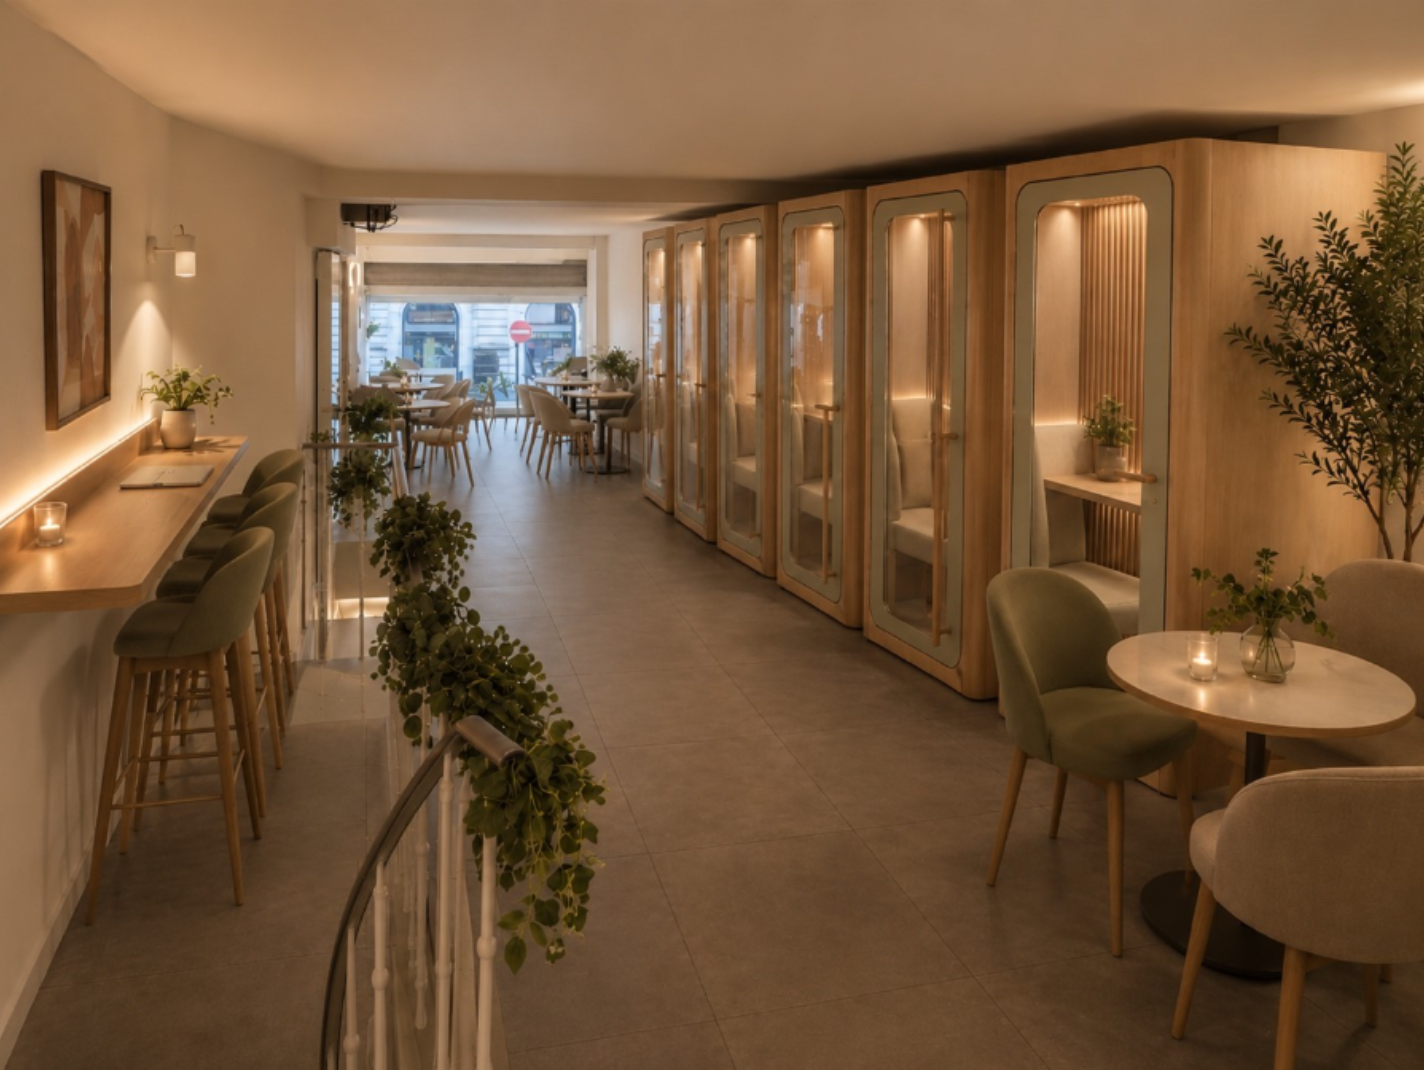
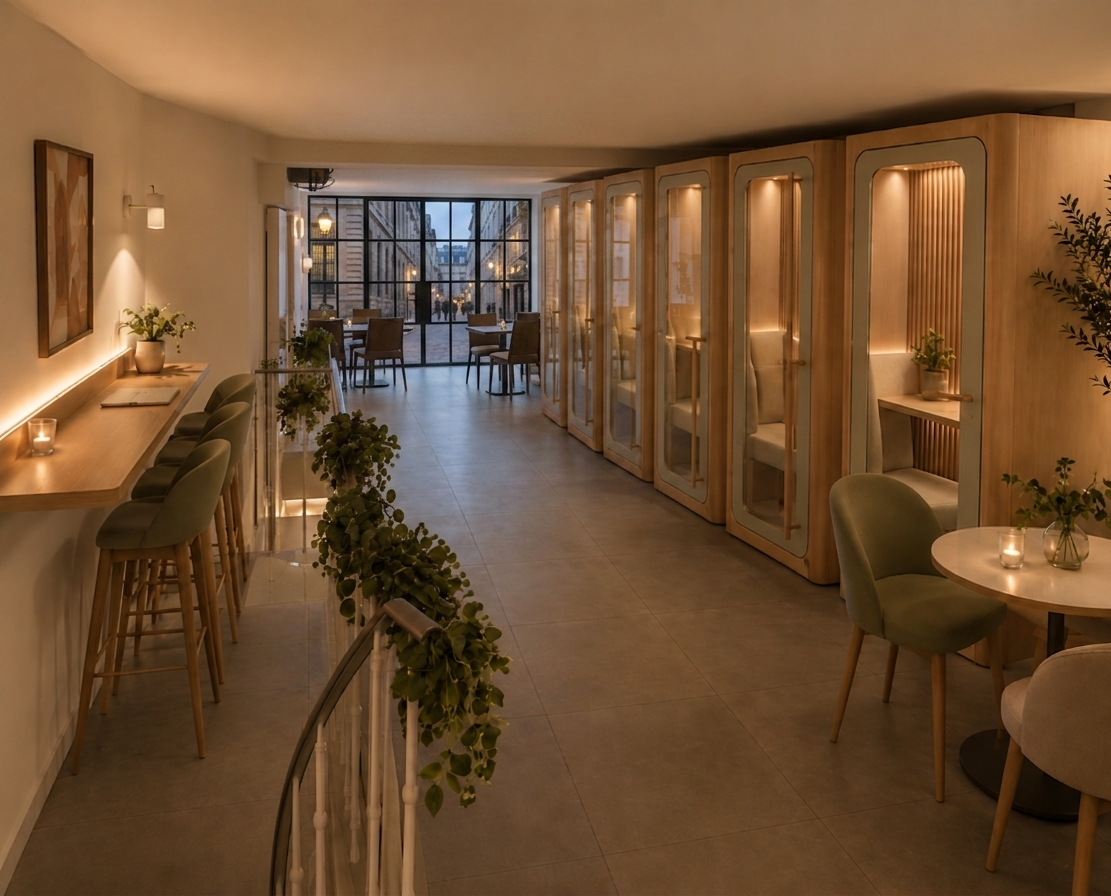
initial commit

diff --git a/src/App.jsx b/src/App.jsx
@@ -89,7 +89,7 @@ export default function SereinCafePage() {
               className="mb-4 inline-block rounded-full px-4 py-2 text-sm tracking-wide"
               style={{ backgroundColor: "#c1cbbe" }}
             >
-              Cafétéria • Studio • Calme
+              Calme • Confort • Flexibilité pour travailler autrement
             </p>
 
             <h1 className="mb-6 font-['Cormorant_Garamond'] text-6xl font-semibold leading-tight md:text-8xl">